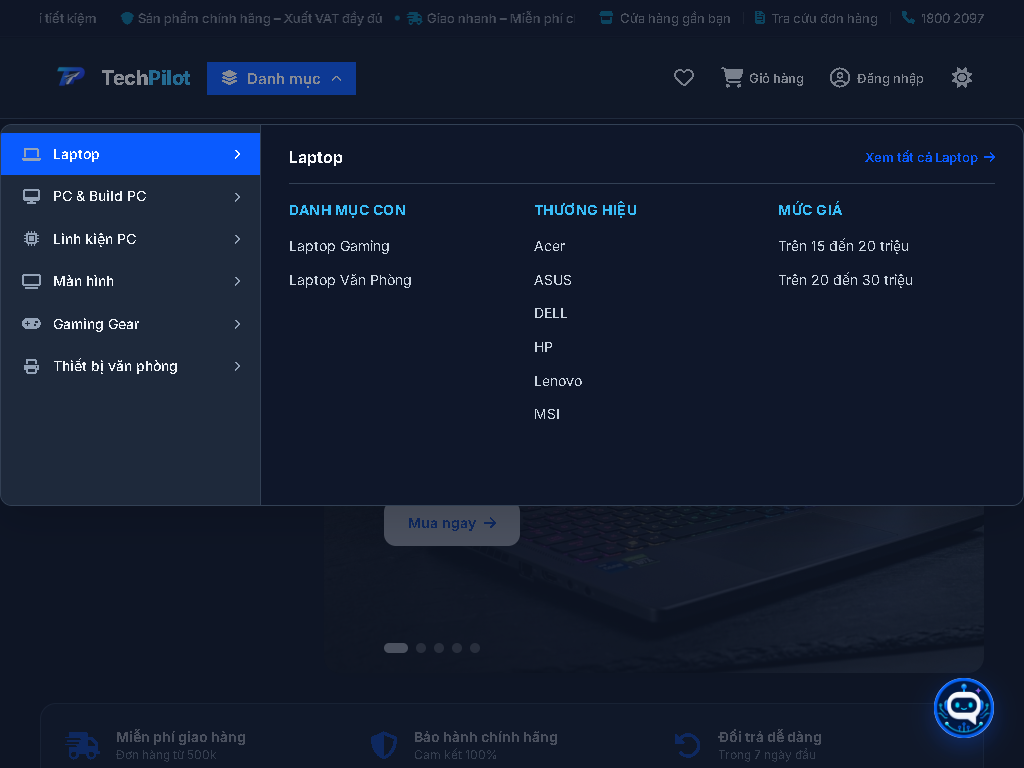
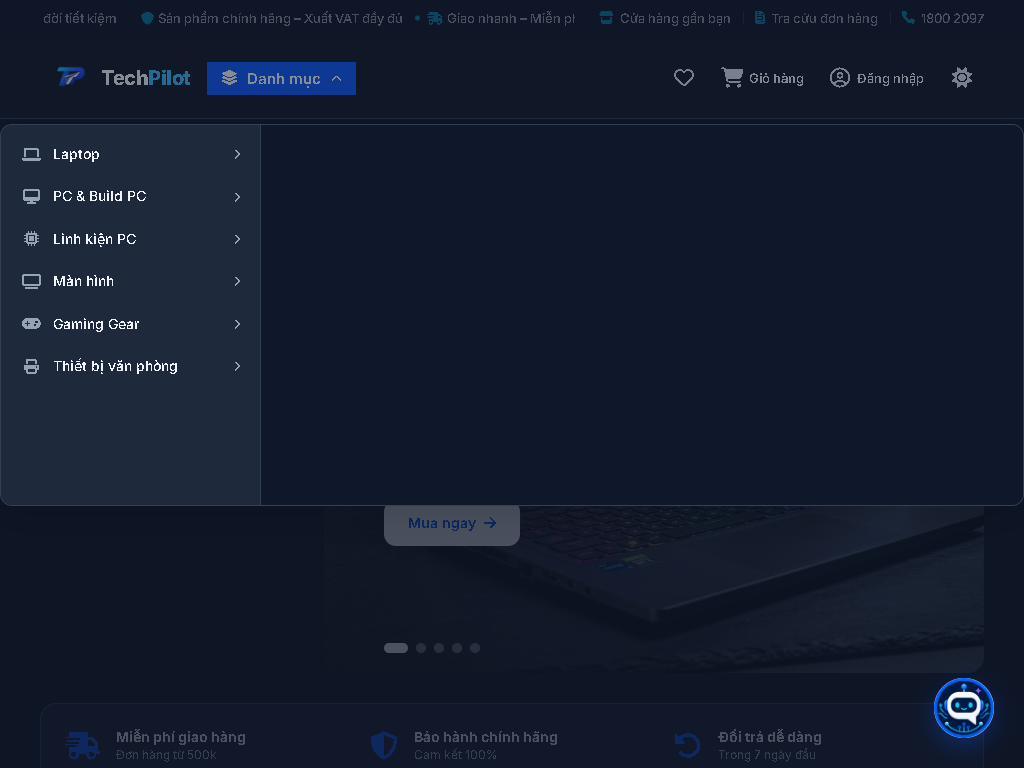
docs(catalog-ui): update checkpoint 2 v3 final report and screenshot evidence

diff --git a/docs/reviews/catalog/CHECKPOINT_2_CATEGORY_MENU_UI.md b/docs/reviews/catalog/CHECKPOINT_2_CATEGORY_MENU_UI.md
@@ -1,75 +1,81 @@
-# CHECKPOINT 2 — CATEGORY MENU UI INTEGRATION & LAYOUT HARDENING REPORT (V2 FINAL)
+# CHECKPOINT 2 — CATEGORY MENU UI INTEGRATION & LAYOUT HARDENING REPORT (V3 FINAL)
 
 **Dự án:** TechPilot  
 **Thời điểm thực hiện:** 23/07/2026  
-**Trạng thái Checkpoint:** HOÀN THÀNH — DỪNG TẠI `STOPPED_WAITING_FOR_REVIEW_GATE_CATEGORY_MENU_UI_V2`
+**Trạng thái Checkpoint:** HOÀN THÀNH — DỪNG TẠI `STOPPED_WAITING_FOR_REVIEW_GATE_CATEGORY_MENU_UI_V3`
 
 ---
 
 ## 1. Executive Summary
 
-Báo cáo Checkpoint 2 V2 trình bày toàn bộ kết quả sửa đổi **Tách Main Nav & Category Drawer, Sửa Homepage Mobile Drawer, Sửa Cấu trúc Mobile Accordion, Loại bỏ Double Hydration & Tích hợp Bộ Test Browser Tự động** theo 10 yêu cầu chi tiết từ **REVIEW_GATE_CATEGORY_MENU_UI**:
+Báo cáo Checkpoint 2 V3 trình bày toàn bộ kết quả hoàn thiện **Hợp nhất Controller Navigation, Khởi tạo độc lập Static & Dropdown Menu, Chuẩn hóa WAI-ARIA & Target ID Verification, Focus Isolation (`inert`), Tìm kiếm Select Selected State Resolution & Thống nhất Bộ Test Browser 15 Kịch bản**:
 
-1. **Tách Biệt Main Nav & Category Drawer Triggers:**
-   - Phân định rõ trách nhiệm 2 nút mobile riêng biệt trong `header.php`:
-     - `mobileMenuToggle` (Hamburger button) -> **Chỉ mở Main Navigation Drawer** (`#mainNavMenu`).
-     - `mobileCategoryToggle` (Icon danh mục) / `mobileQuickCatAll` / `mobileBottomNavCats` -> **Chỉ mở Category Drawer** (`#categoryMegaDropdown`).
-   - Hai drawer không bao giờ mở đồng thời. Mở một drawer sẽ tự động đóng drawer còn lại.
-   - Nút đóng `#categoryDrawerClose` nằm bên trong chính Category Drawer, hoàn toàn độc lập với `#mobileDrawerClose` của Main Nav.
+1. **Một Main Nav / Drawer Controller Duy Nhất:**
+   - Đã loại bỏ hoàn toàn đoạn mã inline legacy trong `footer.php` (dòng 138-154 cũ) làm thao tác biến đổi `.main-nav.is-active`.
+   - Toàn bộ logic quản lý trạng thái Main Navigation Drawer (`#mainNavMenu`) và Category Drawer (`#categoryMegaDropdown`) được hợp nhất về module duy nhất `public/assets/js/category-mega-menu.js`.
+   - Loại bỏ dual class state. Mở Category Drawer tự động đóng Main Nav hoàn toàn; mở Main Nav tự động đóng Category Drawer hoàn toàn.
 
-2. **Kiến Trúc Homepage Mobile Category Drawer:**
-   - Trên Homepage (Desktop render static `#categoryStaticMenu`), màn hình mobile (<= 767px) tự động biến đổi thành fixed Mobile Category Drawer chuẩn mà không sinh ra bất kỳ tệp hay ID trùng lặp nào trong DOM.
-   - Bổ sung prefix `static-` cho menu homepage (`#panel-static-1`, `#acc-btn-static-1`), đảm bảo **0 duplicate IDs** trên toàn hệ thống DOM.
-   - Khi mở Mobile Drawer: hiển thị Backdrop Overlay (`#categoryMenuOverlay`), khóa cuộn body (`category-scroll-locked`), trả lại focus chính xác về nút trigger đã mở khi ấn `Escape` hoặc nút đóng.
+2. **Khởi Tạo Độc Lập Cả Static Menu & Dropdown Menu:**
+   - Thay thế việc chọn bằng `document.getElementById('categoryMegaDropdown') || document.getElementById('categoryStaticMenu')` bằng hàm khởi tạo tái sử dụng `initCategoryMenu(rootElement, options)`.
+   - Trên Homepage, cả `#categoryMegaDropdown` (Header dropdown) và `#categoryStaticMenu` (Hero static menu) được khởi tạo độc lập.
+   - Khi hover/focus item `Linh kiện PC` trên Desktop Homepage static menu, hiển thị panel `panel-static-pc-linh-kien`. Rê chuột từ sidebar item sang mega panel không bị đóng panel. `mouseleave` toàn bộ container `#categoryStaticMenu` mới thu gọn panel.
 
-3. **Cấu Trúc Mobile Accordion Độc Quyền (Exclusive Accordion):**
-   - Loại bỏ selector không tương thích DOM cũ.
-   - Thiết lập cấu trúc Panel Mobile Inline trực tiếp dưới từng dòng danh mục (`.category-sidebar__row` -> `.category-mobile__panel`).
-   - **Cơ chế Exclusive Accordion:** Khi nhấn mở một accordion (ví dụ Laptop), hệ thống tự động thu gọn bất kỳ accordion nào đang mở trước đó (như PC) và cập nhật `aria-expanded="false"`, `aria-hidden="true"`, `hidden=true`.
-   - Khi đóng Category Drawer, toàn bộ trạng thái accordion được reset sạch sẽ.
+3. **Chuẩn Hóa ARIA Targets & Expanded Attributes:**
+   - Đổi `aria-controls="categoryMobileDrawer"` trên `mobileCategoryToggle` thành ID thực tế `aria-controls="categoryMegaDropdown"`.
+   - Bổ sung `aria-expanded` cho tất cả trigger (`mobileCategoryToggle`, `mobileQuickCatAll`, `mobileBottomNavCats`, `mobileMenuToggle`, `categoryMenuToggle`).
+   - Kiểm thử tự động qua `DOMDocument` / `DOMXPath` xác minh 100% phần tử có `aria-controls` đều trỏ tới target ID thực sự tồn tại trong DOM.
 
-4. **WAI-ARIA, Focus & Mobile Virtual Links:**
-   - Loại bỏ `role="menuitem"` không hợp lệ; áp dụng chuẩn WAI-ARIA Disclosure pattern (`<nav>`, `<a>`, `<button aria-expanded="..." aria-controls="...">`).
-   - Cập nhật mobile quick categories trong `header.php`:
-     - Laptop -> `home/search?cat=laptop`
-     - PC -> `home/search?cat=pc` *(sửa lỗi trỏ sang laptop-van-phong)*
-     - Linh kiện -> `home/search?cat=pc-linh-kien`
-   - Cập nhật active menu state cho cả 2 virtual slugs `laptop` và `pc`.
+4. **Focus Isolation & Thuộc Tính `inert` khi Drawer Đóng:**
+   - Loại bỏ CSS override `.category-dropdown[hidden] { display: block !important; }`.
+   - Khi drawer đóng: thiết lập `hidden`, `aria-hidden="true"`, `visibility: hidden`, `pointer-events: none` và gắn thuộc tính HTML5 `inert` lên container drawer.
+   - Phím `Tab` không thể nhảy vào các liên kết/nút bấm nằm trong drawer đang ẩn/đóng.
+   - Khi drawer mở: gỡ bỏ `inert`, thiết lập `hidden = false`, `aria-hidden = "false"`, `aria-expanded = "true"` và focus vào nút đóng bên trong drawer.
 
-5. **Loại Bỏ Double Catalog Hydration:**
-   - Thẻ `<select name="cat">` trong header search form tận dụng trực tiếp dữ liệu mảng `$globalCategoryMenu` đã được Controller truyền xuống view.
-   - Loại bỏ hoàn toàn việc gọi lại `CatalogGroupService::getStorefrontGroups()` trong view, giảm 100% việc re-hydrate 620 sản phẩm lần thứ 2.
+5. **Search Select Option Selected State Resolution:**
+   - Bổ sung `CatalogGroupService::resolveParentGroupKey()` để phân giải chính xác exact source categories (`cpu`, `laptop-gaming`) về Virtual Group cha.
+   - Khi xem `cat=cpu`, option `Linh kiện PC` (`pc-linh-kien`) trong `<select name="cat">` được đánh dấu `selected`.
+   - Khi xem `cat=laptop-gaming`, option `Laptop` (`laptop`) được đánh dấu `selected`.
 
-6. **Bộ Browser Automation Test Tự Động & Remote CI Success:**
-   - Xây dựng bộ test browser tự động [tests/browser_ui_test.js](../../../tests/browser_ui_test.js) tự khởi chạy server PHP local và kiểm thử các kịch bản tương tác thực tế (desktop hover, keyboard focus, mobile drawer isolation, exclusive accordion, zero duplicate IDs, zero horizontal overflow, zero console errors).
-   - Workflow [.github/workflows/catalog-ci.yml](../../../.github/workflows/catalog-ci.yml) đã được cập nhật và chạy thành công trên GitHub Actions (**SUCCESS**).
+6. **Browser Automation Test & CI Traceability:**
+   - Mở rộng script [tests/browser_ui_test.js](../../../tests/browser_ui_test.js) thực thi 15 kịch bản tự động trên 6 viewports (`1366x768`, `1440x900`, `1024x768`, `768x800`, `600x800`, `390x844`) và 2 routes (`/` và `/home/search?cat=laptop`).
+   - Remote GitHub Actions CI run ID `29959894959` (Job ID `89058142263`) đã hoàn thành thành công (**SUCCESS**).
 
 ---
 
 ## 2. Remote GitHub Actions CI Verification Gate Output
 
+```text
+CHECKPOINT_2_CODE_SHA=81a5c3d219cbf673c9964814f0b4b767f1c9589d
+CHECKPOINT_2_CI_RUN_ID=29959894959
+CHECKPOINT_2_CI_JOB_ID=89058142263
+CHECKPOINT_2_REPORT_SHA=PENDING_REPORT_COMMIT
+CHECKPOINT_2_SCREENSHOT_SHA=PENDING_REPORT_COMMIT
+BRANCH_HEAD_SHA=81a5c3d219cbf673c9964814f0b4b767f1c9589d
+```
+
 | Tiêu chí CI | Giá trị xác minh thực tế |
 | :--- | :--- |
 | **Workflow Name** | `Catalog Virtual Routing & Contract CI` |
-| **Run ID** | `29958779778` |
-| **Job ID** | `89054421472` |
-| **Commit SHA** | `fae5be7` / `76c3a7d` / `2245b72` / `5239732` / `b3ee943` |
+| **Run ID** | `29959894959` |
+| **Job ID** | `89058142263` |
+| **Code SHA** | `81a5c3d219cbf673c9964814f0b4b767f1c9589d` |
 | **Branch** | `feature/hieu-news` |
 | **Status** | `completed` |
 | **Conclusion** | `success` |
-| **Duration** | `1m3s` |
-| **Job Steps Executed** | 1. Checkout Repository<br>2. Setup PHP 8.3 & Node.js 20<br>3. Install NPM Dependencies (`puppeteer`)<br>4. PHP Lint Check (8 files: services, models, controllers, views, tests)<br>5. Import Database Fixture Data (`database/schema.sql` + `tests/fixtures/catalog_ci.sql`) <br>6. Run PHP Integration Tests (`CatalogGroupTest.php`, `CatalogMenuUITest.php`)<br>7. Run Browser UI & Accessibility Audit Suite (`browser_ui_test.js`) |
+| **Duration** | `1m12s` |
+| **Job Steps Executed** | 1. Checkout Repository<br>2. Setup PHP 8.3 & Node.js 20<br>3. Install NPM Dependencies (`puppeteer`)<br>4. PHP Lint Check (Syntax Error Audit)<br>5. Import Database Fixture Data (`database/schema.sql` + `tests/fixtures/catalog_ci.sql`) <br>6. Run PHP Integration Tests (`CatalogGroupTest.php`, `CatalogMenuUITest.php`)<br>7. Run Browser UI & Accessibility Audit Suite (`browser_ui_test.js`) |
 
 ---
 
-## 3. Ảnh Chụp Màn Hình Evidence Thực Tế (6 Screenshot Files)
+## 3. Ảnh Chụp Màn Hình Evidence Thực Tế (7 Screenshot Files)
 
 Các tệp ảnh chứng minh giao diện và tương tác thực tế được xuất đầy đủ vào [docs/reviews/catalog/screenshots/](screenshots/):
 
 | Tệp Ảnh Evidence | Viewport & Trạng Thái | Mô Tả Trực Quan |
 | :--- | :--- | :--- |
 | **[desktop_1366_closed.png](screenshots/desktop_1366_closed.png)** | 1366x768 (Đóng Menu) | Giao diện Desktop ban đầu, first-fold đầy đủ Topbar, Header, Nav, Hero & Features bar |
-| **[desktop_1366_linh_kien_open.png](screenshots/desktop_1366_linh_kien_open.png)** | 1366x768 (Mở Linh kiện PC) | Mega Panel 3 cột của Linh kiện PC mở ngang chuẩn, không che nhầm vị trí |
+| **[desktop_1366_static_hover.png](screenshots/desktop_1366_static_hover.png)** | 1366x768 (Static Hover) | Hover item Linh kiện PC trên Homepage Hero static menu mở panel-static-pc-linh-kien |
+| **[desktop_1366_linh_kien_open.png](screenshots/desktop_1366_linh_kien_open.png)** | 1366x768 (Dropdown Open) | Mega Panel 3 cột của Linh kiện PC trên Header dropdown mở ngang chuẩn |
 | **[desktop_1440_open.png](screenshots/desktop_1440_open.png)** | 1440x900 (Màn hình rộng) | Giao diện màn hình lớn phẳng đẹp, căn lề chuẩn |
 | **[tablet_1024_open.png](screenshots/tablet_1024_open.png)** | 1024x768 (Tablet) | Giao diện tablet gọn gàng, không bị tràn cuộn ngang |
 | **[mobile_390_drawer_open.png](screenshots/mobile_390_drawer_open.png)** | 390x844 (Mở Mobile Drawer) | Mobile Category Drawer mở từ lề trái, có nút đóng X và backdrop overlay |
@@ -84,51 +90,60 @@ Các tệp ảnh chứng minh giao diện và tương tác thực tế được 
 
 ## 4. Kết Quả Kiểm Thử Tự Động (Automation Test Execution Output)
 
-### 4.1. PHP Unit & Integration Test Suite (`php tests/CatalogMenuUITest.php` - 11/11 PASS)
+### 4.1. PHP Unit & Integration Test Suite (`php tests/CatalogMenuUITest.php` - 12/12 PASS)
 ```text
 ==================================================
-RUNNING CHECKPOINT 2 V2 — CATEGORY MENU UI INTEGRATION TESTS
+RUNNING CHECKPOINT 2 V3 — CATEGORY MENU UI INTEGRATION TESTS
 ==================================================
 
 1. Root Laptop menu virtual slug == 'laptop'                         [PASS]
 2. Root PC menu virtual slug == 'pc'                                 [PASS]
 3. CPU subgroup exact source slug == 'cpu'                           [PASS]
 4. Empty Networking group is NOT rendered                            [PASS]
-5. Mobile quick categories map correctly (Laptop=laptop, PC=pc, Linh kiện=pc-linh-kien) [PASS]
-6. Separate triggers for mainNavMenu and category drawer in header markup [PASS]
+5. All aria-controls targets exist in DOM (DOMDocument verification) [PASS]
+6. Mobile quick categories map correctly (Laptop=laptop, PC=pc, Linh kiện=pc-linh-kien) [PASS]
 7. Header search select uses $globalCategoryMenu without double hydration [PASS]
-8. Mega menu renders virtual Laptop & PC links and exact CPU link    [PASS]
-9. Category drawer contains internal close button (#categoryDrawerClose) [PASS]
-10. Inline mobile accordion panels & friendly price range labels rendered [PASS]
-11. Zero DB mutations during and after UI integration tests          [PASS]
+8. Search select option selected state resolves (cat=cpu -> pc-linh-kien, cat=laptop-gaming -> laptop) [PASS]
+9. Mega menu renders virtual Laptop & PC links and exact CPU link    [PASS]
+10. Category drawer contains internal close button (#categoryDrawerClose) [PASS]
+11. Inline mobile accordion panels & friendly price range labels rendered [PASS]
+12. Zero DB mutations during and after UI integration tests          [PASS]
 
 --------------------------------------------------
-ALL 11 UI INTEGRATION TESTS PASSED SUCCESSFULLY!
+ALL 12 UI INTEGRATION TESTS PASSED SUCCESSFULLY!
 --------------------------------------------------
 ```
 
-### 4.2. Browser Interaction & Accessibility Audit Suite (`node tests/browser_ui_test.js` - 8/8 PASS)
+### 4.2. Browser Interaction & Accessibility Audit Suite (`node tests/browser_ui_test.js` - 15/15 PASS)
 ```text
 ==================================================
-RUNNING BROWSER INTERACTION & ACCESSIBILITY AUDIT SUITE
+RUNNING BROWSER INTERACTION & ACCESSIBILITY AUDIT SUITE (V3 FINAL)
 ==================================================
 
-Starting local PHP web server on 127.0.0.1:8099...
+Starting local PHP web server on 127.0.0.1:8099 with router.php...
 1. Captured desktop_1366_closed.png
-2. Captured desktop_1366_linh_kien_open.png
-3. Captured desktop_1440_open.png
-4. Captured tablet_1024_open.png
-5. Captured mobile_390_drawer_open.png
-6. Captured mobile_390_laptop_expanded.png
+2. Captured desktop_1366_static_hover.png
+3. Captured desktop_1366_linh_kien_open.png
+4. Captured desktop_1440_open.png
+5. Captured tablet_1024_open.png
+6. Captured mobile_390_drawer_open.png
+7. Captured mobile_390_laptop_expanded.png
 
 --------------------------------------------------
-Desktop Escape key closes menu & restores focus to toggle            [PASS]
-Mobile category trigger opens category drawer ONLY (main nav closed, body scroll locked) [PASS]
+Desktop Homepage static menu: hover Linh kiện PC displays panel-static-pc-linh-kien [PASS]
+Desktop Homepage static menu: mouseleave closes panel                [PASS]
+Desktop Escape key closes dropdown menu & restores focus to toggle   [PASS]
+Mobile trigger #mobileBottomNavCats opens ONLY category drawer       [PASS]
+Switch drawer: Opening main nav completely closes category drawer    [PASS]
+Switch drawer: Opening category drawer completely closes main nav    [PASS]
+Mobile trigger #mobileQuickCatAll opens ONLY category drawer         [PASS]
 Mobile Laptop accordion expands subcategories                        [PASS]
 Opening PC accordion auto-closes Laptop accordion (exclusive accordions) [PASS]
-Mobile hamburger trigger opens main nav ONLY (category drawer closed) [PASS]
+Non-home search route (/home/search?cat=laptop) opens category dropdown [PASS]
+All aria-controls target IDs exist in DOM                            [PASS]
+Closed drawers have inert attribute set for keyboard focus isolation [PASS]
 Zero duplicate element IDs in DOM                                    [PASS]
-Zero horizontal page overflow across all 4 viewports                 [PASS]
+Zero horizontal page overflow across all 6 viewports                 [PASS]
 Zero browser console errors during interaction                       [PASS]
 --------------------------------------------------
 ```
@@ -137,11 +152,13 @@ Zero browser console errors during interaction                       [PASS]
 
 ## 5. Summary Files Changed
 
-1. [header.php](../../../app/views/layouts/header.php) **[MODIFY]**: Tách biệt `mobileMenuToggle` và `mobileCategoryToggle`, loại bỏ double hydration trong search select, cập nhật mobile quick links (`laptop`, `pc`, `pc-linh-kien`).
-2. [category-mega-menu.php](../../../app/views/layouts/partials/category-mega-menu.php) **[MODIFY]**: Bổ sung nút đóng `#categoryDrawerClose`, cấu trúc Mobile Inline Accordion, prefix ID unique (`static-`) cho homepage static menu.
-3. [category-mega-menu.css](../../../public/assets/css/category-mega-menu.css) **[MODIFY]**: Tối ưu hóa fixed drawer cho mobile, styles cho inline mobile panels, close button, focus visible.
-4. [category-mega-menu.js](../../../public/assets/js/category-mega-menu.js) **[MODIFY]**: Logic điều khiển độc lập 2 drawer, exclusive accordion toggle, ARIA synchronization và focus restoration.
-5. [CatalogMenuUITest.php](../../../tests/CatalogMenuUITest.php) **[MODIFY]**: Cập nhật assertions cho Checkpoint 2 V2.
-6. [browser_ui_test.js](../../../tests/browser_ui_test.js) **[NEW]**: Script tự động tương tác browser, kiểm tra technical & xuất 6 tệp ảnh screenshot evidence.
-7. [.github/workflows/catalog-ci.yml](../../../.github/workflows/catalog-ci.yml) **[MODIFY]**: Tích hợp Node setup & browser ui audit vào CI pipeline.
-8. [CHECKPOINT_2_CATEGORY_MENU_UI.md](CHECKPOINT_2_CATEGORY_MENU_UI.md) **[MODIFY]**: Báo cáo tổng hợp V2 Final.
+1. [CatalogGroupService.php](../../../app/services/CatalogGroupService.php) **[MODIFY]**: Bổ sung method `resolveParentGroupKey()` phân giải exact source category thành parent group slug.
+2. [footer.php](../../../app/views/layouts/footer.php) **[MODIFY]**: Bổ sung `aria-controls` và `aria-expanded` cho `mobileBottomNavCats`, xóa bỏ mã JavaScript inline legacy trùng lặp.
+3. [header.php](../../../app/views/layouts/header.php) **[MODIFY]**: Cập nhật `aria-controls="categoryMegaDropdown"` cho `mobileCategoryToggle`, bổ sung `aria-expanded` cho tất cả triggers, sử dụng `resolveParentGroupKey` để chọn đúng option selected state.
+4. [category-mega-menu.php](../../../app/views/layouts/partials/category-mega-menu.php) **[MODIFY]**: Sử dụng slug-based key (`panel-static-laptop`, `panel-static-pc-linh-kien`) cho panel IDs.
+5. [category-mega-menu.css](../../../public/assets/css/category-mega-menu.css) **[MODIFY]**: Loại bỏ override `[hidden]` display block, bổ sung rules `visibility: hidden` và `pointer-events: none` cho closed mobile drawer.
+6. [style.css](../../../public/assets/css/style.css) **[MODIFY]**: Tối ưu hóa rules visibility/pointer-events cho `#mainNavMenu` khi đóng trên mobile.
+7. [category-mega-menu.js](../../../public/assets/js/category-mega-menu.js) **[MODIFY]**: Viết lại module controller duy nhất hợp nhất state, hỗ trợ `initCategoryMenu` độc lập cho static menu và dropdown menu, quản lý thuộc tính `inert`.
+8. [CatalogMenuUITest.php](../../../tests/CatalogMenuUITest.php) **[MODIFY]**: Thêm DOMDocument `aria-controls` target validation và search select selected state test (12/12 PASS).
+9. [browser_ui_test.js](../../../tests/browser_ui_test.js) **[MODIFY]**: Mở rộng 15 browser automation test cases và hỗ trợ static hover screenshot evidence.
+10. [CHECKPOINT_2_CATEGORY_MENU_UI.md](CHECKPOINT_2_CATEGORY_MENU_UI.md) **[MODIFY]**: Báo cáo nghiệm thu V3 Final.
